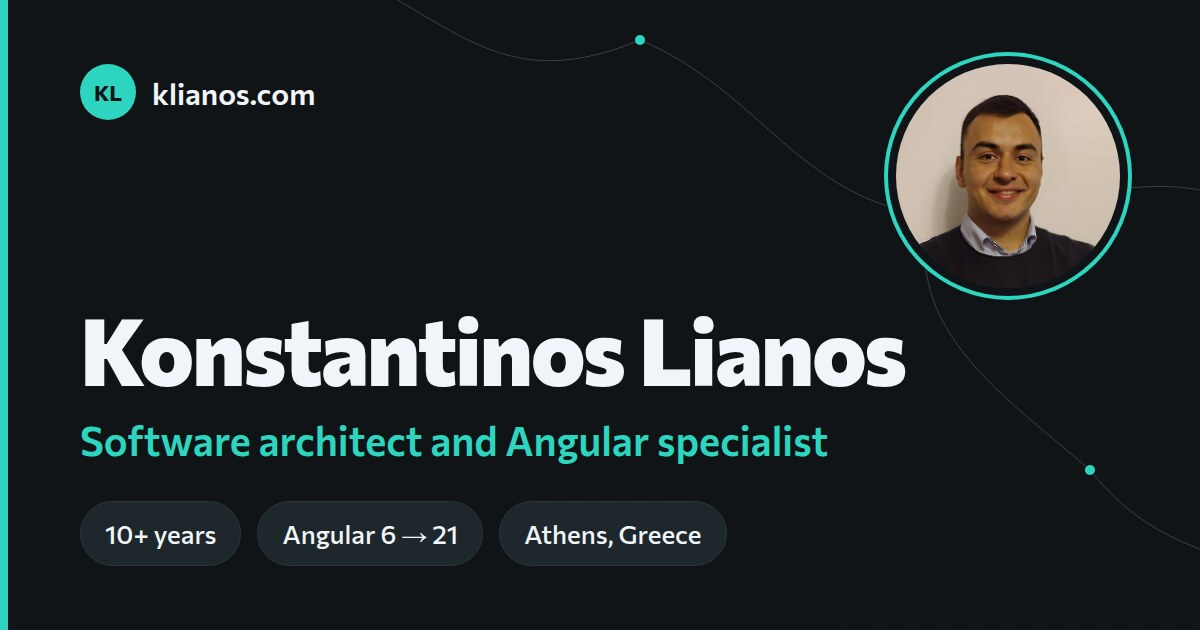
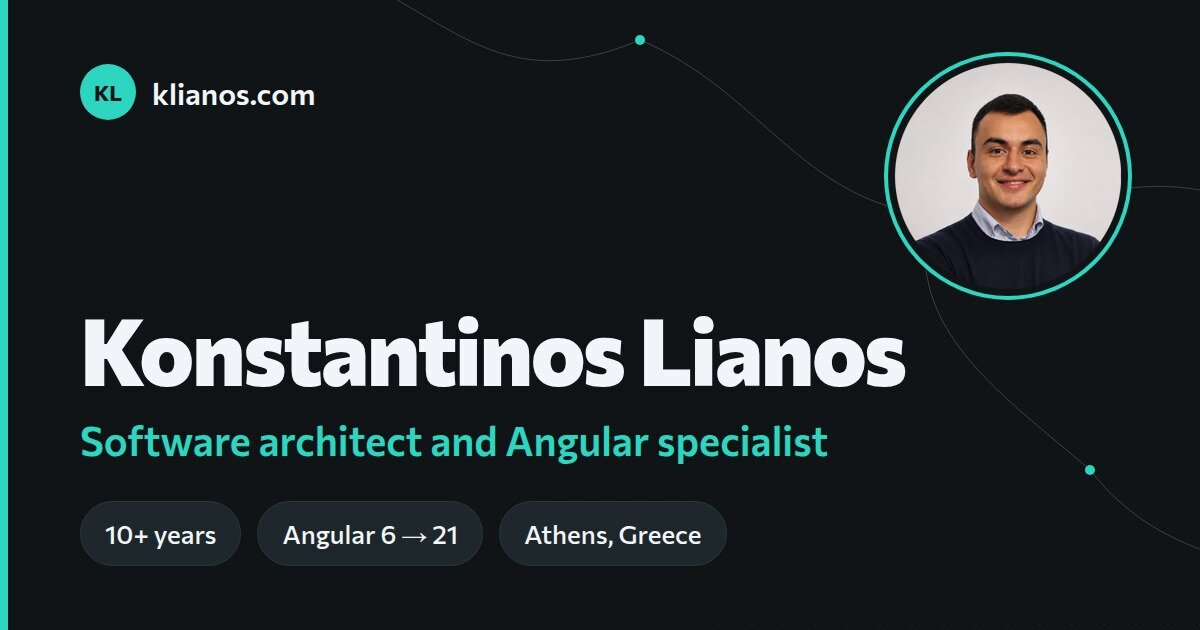
Replace the portrait with one that suits the palette
Swap the warm beige photo for a cool grey one in the hero and the social
card avatar. The new picture is 4:5 rather than 3:4, so update the img
height to match and avoid layout shift.

Changed region(s): [[0.74, 0.0905, 0.9558, 0.4222]]

diff --git a/index.html b/index.html
@@ -443,7 +443,7 @@
                                 srcset="/profile-400.jpg 400w, /profile-800.jpg 800w"
                                 sizes="(min-width: 64rem) 24rem, (min-width: 48rem) 20rem, 80vw"
                                 width="400"
-                                height="533"
+                                height="500"
                                 alt="Portrait of Konstantinos Lianos"
                             />
                         </div>
